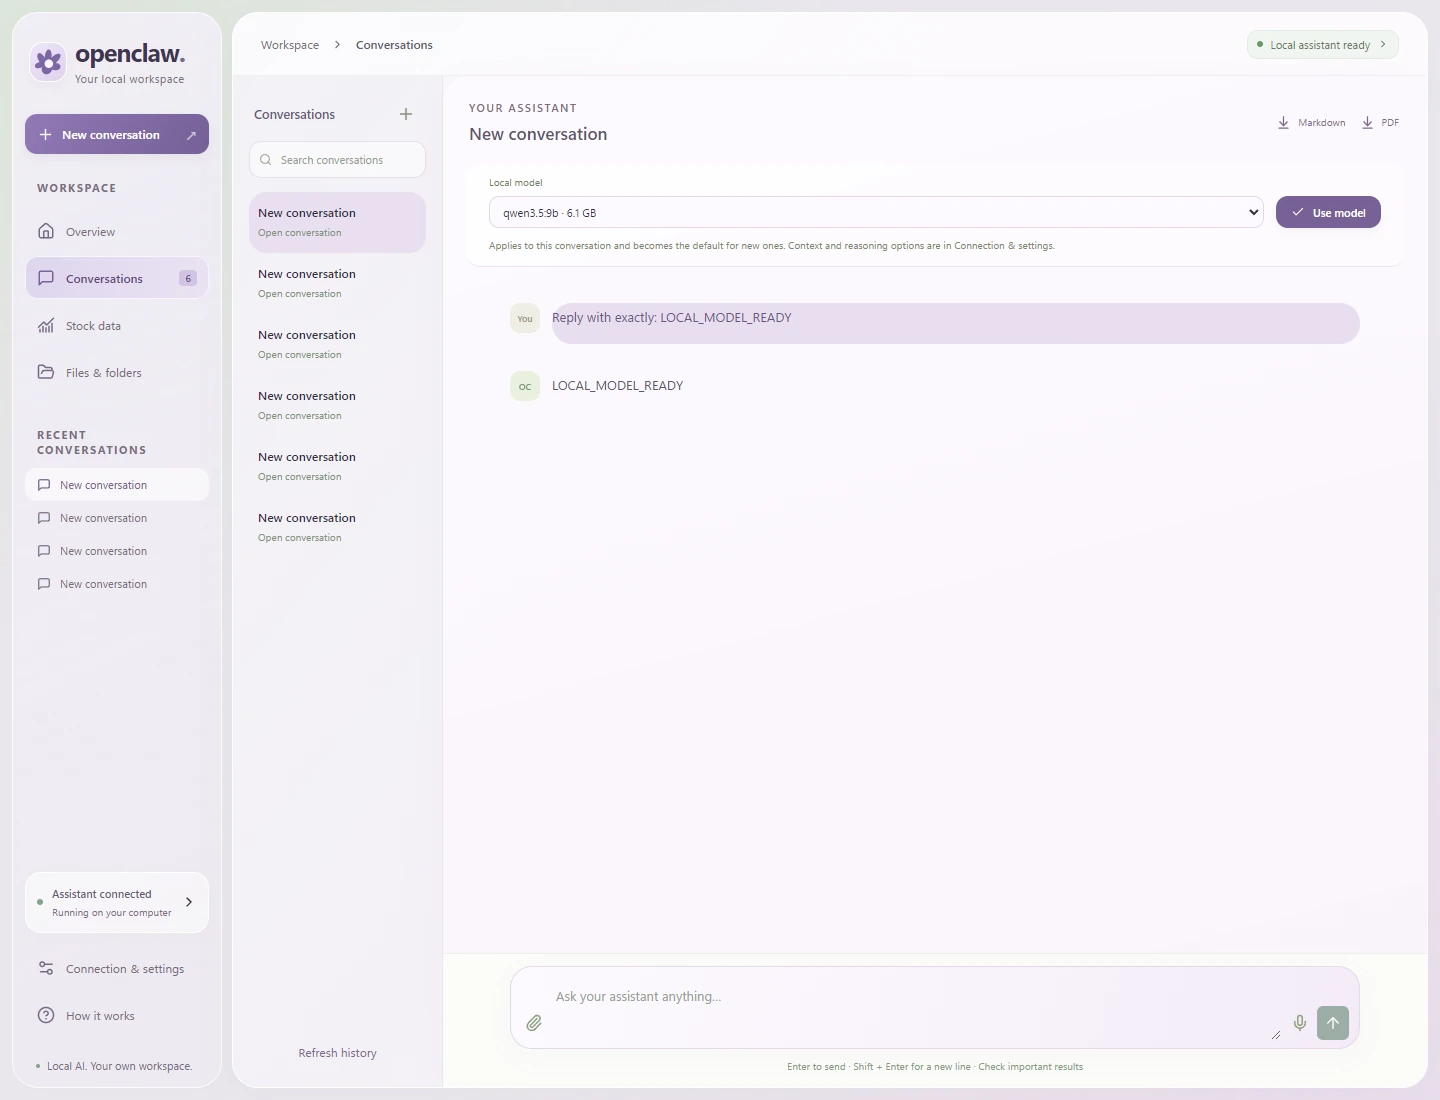
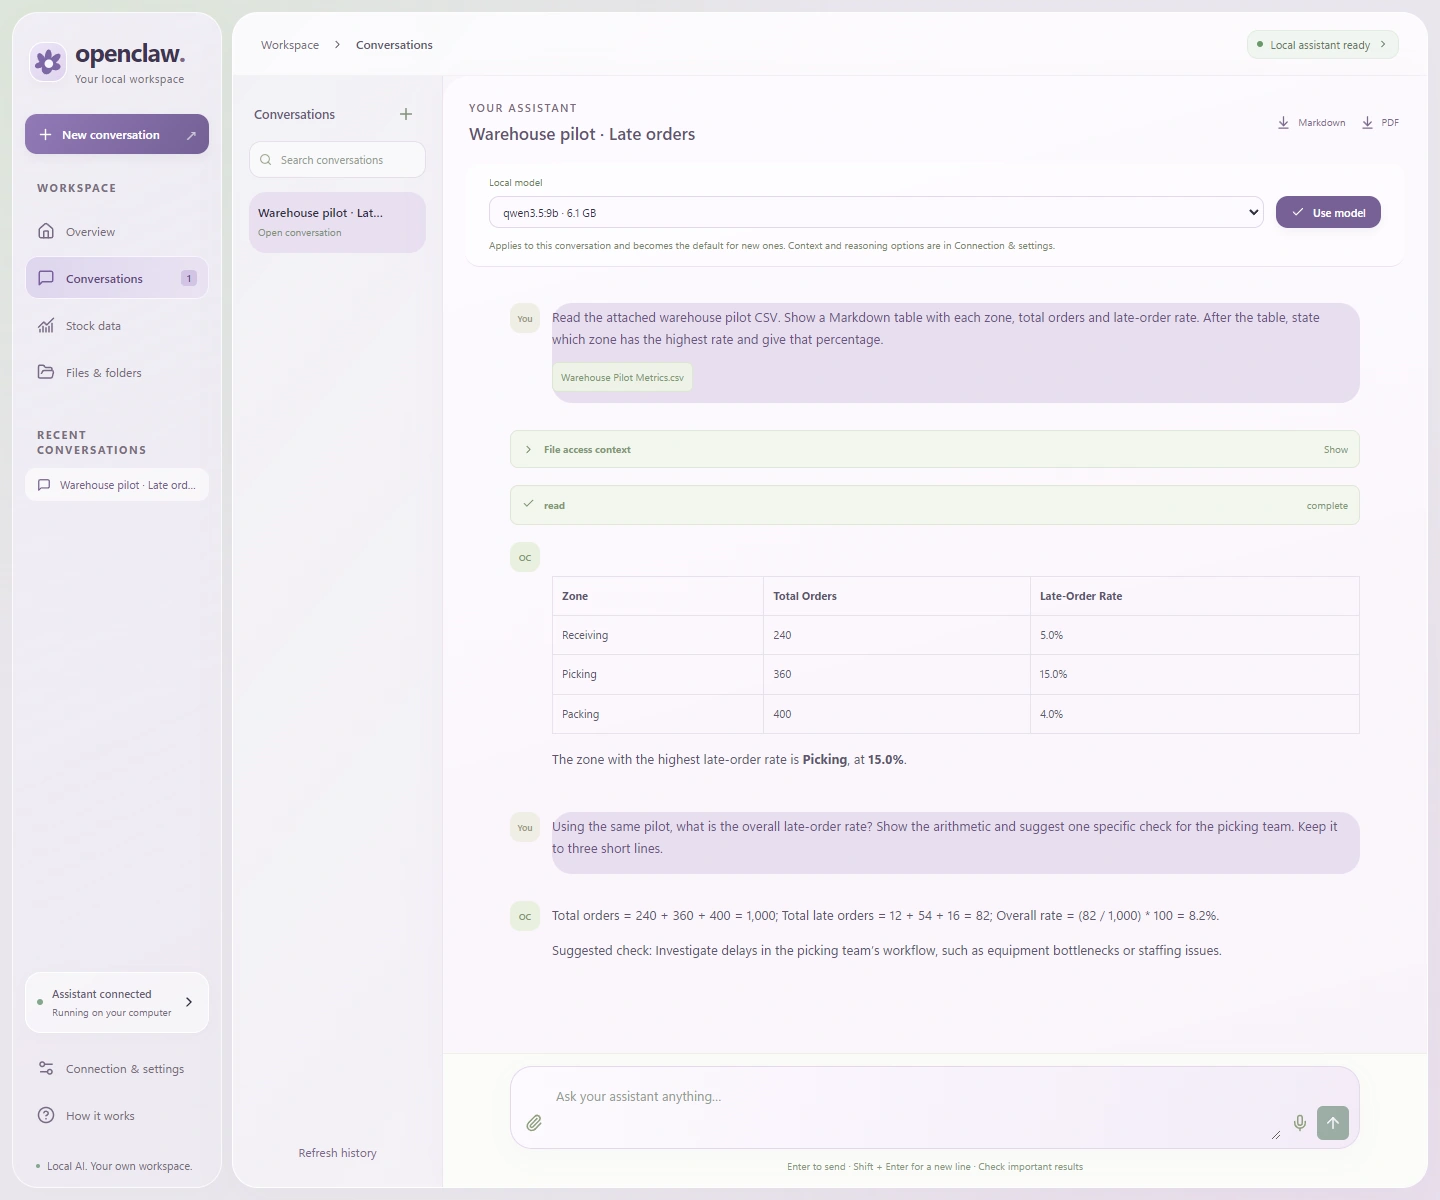
Show the verified OpenClaw Desktop conversation and features (#4)

diff --git a/src/pages/projectData.js b/src/pages/projectData.js
@@ -34,16 +34,18 @@ const projects = [
   {
     title: 'OpenClaw Desktop',
     description: 'A Windows workspace for chatting with a local assistant, attaching files, and collecting daily market data.',
-    approach: 'An Electron and React client connects to an existing OpenClaw installation in WSL. The data collector stores OHLCV history in local SQLite, supports scheduled runs, and exports CSV files.',
+    approach: 'An Electron and React client connects to OpenClaw in WSL and runs Qwen through Ollama. It supports file analysis, voice dictation, and chat exports. A separate workspace schedules market-data collection, stores it in SQLite, and exports CSV.',
     stack: ['Electron', 'TypeScript', 'React', 'SQLite', 'Ollama'],
     links: [
       { label: 'Watch demo', url: '/demos/openclaw-desktop.webm' },
       { label: 'Source code', url: 'https://github.com/AntonIlin17/openclawUI' },
     ],
     images: [
-      { src: '/projects/openclaw/overview.webp', alt: 'OpenClaw Desktop overview with its local assistant connected', caption: 'Connected assistant workspace' },
-      { src: '/projects/openclaw/conversation.webp', alt: 'OpenClaw Desktop conversation showing a local model response', caption: 'Local model conversation' },
-      { src: '/projects/openclaw/stocks.webp', alt: 'Market data collection dashboard with a watchlist and price chart', caption: 'Scheduled market data workspace' },
+      { src: '/projects/openclaw/conversation.webp', alt: 'Complete Qwen conversation with an attached warehouse CSV, a finished file read, a results table, and an 8.2% follow-up calculation', caption: 'Full local conversation with CSV analysis' },
+      { src: '/projects/openclaw/working.webp', alt: 'The assistant has accepted a follow-up request and displays the live run status and stop control', caption: 'Live run progress and stop control' },
+      { src: '/projects/openclaw/voice-input.webp', alt: 'Windows speech recognition has added a dictated phrase to the existing chat draft', caption: 'Windows dictation in the chat composer' },
+      { src: '/projects/openclaw/connection.webp', alt: 'Connection settings show Ollama available, the Qwen model selected, and OpenClaw connected', caption: 'Connected Ollama and OpenClaw services' },
+      { src: '/projects/openclaw/stocks.webp', alt: 'Market workspace shows 753 collected price records, a real price chart, and a saved collection schedule', caption: 'Live market data and collection schedule' },
     ],
   },
   {
